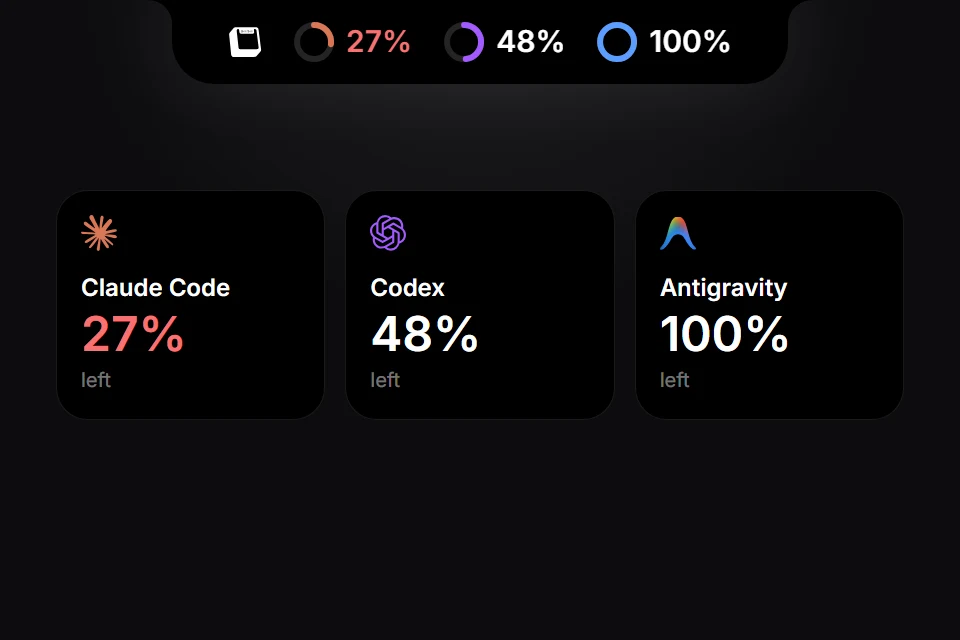
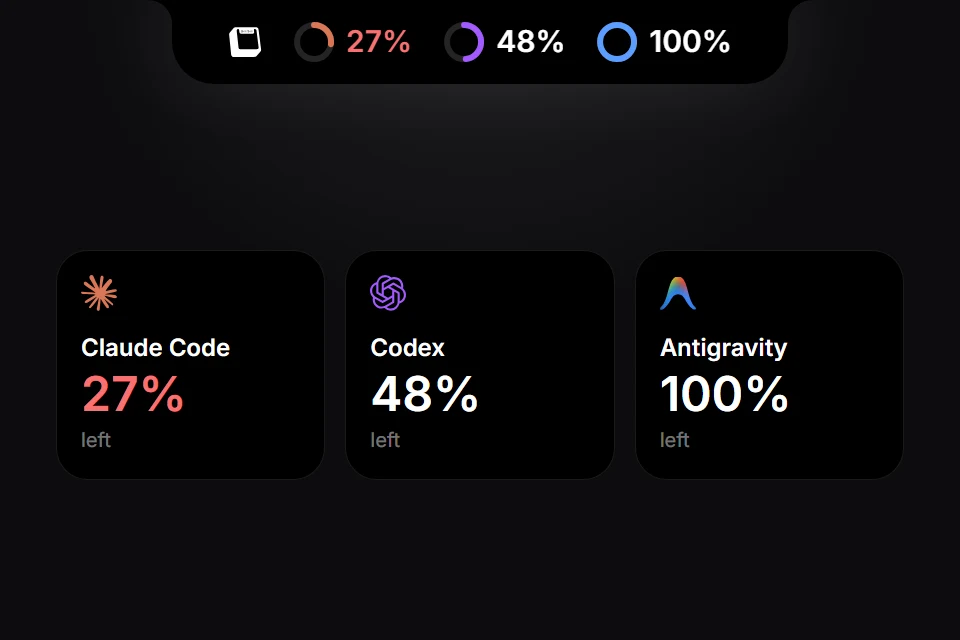
fix(website): center pill feature image

diff --git a/website/src/components/ShotCards.tsx b/website/src/components/ShotCards.tsx
@@ -40,7 +40,7 @@ export function PillShot() {
           </span>
         ))}
       </div>
-      <div className="absolute inset-x-14 top-[190px] grid grid-cols-3 gap-5">
+      <div className="absolute inset-x-14 top-[250px] grid grid-cols-3 gap-5">
         {CARDS.map(([id, name, left]) => (
           <div key={id} className="rounded-3xl border border-white/10 bg-black p-6">
             <ProviderLogo id={id} size={36} />
